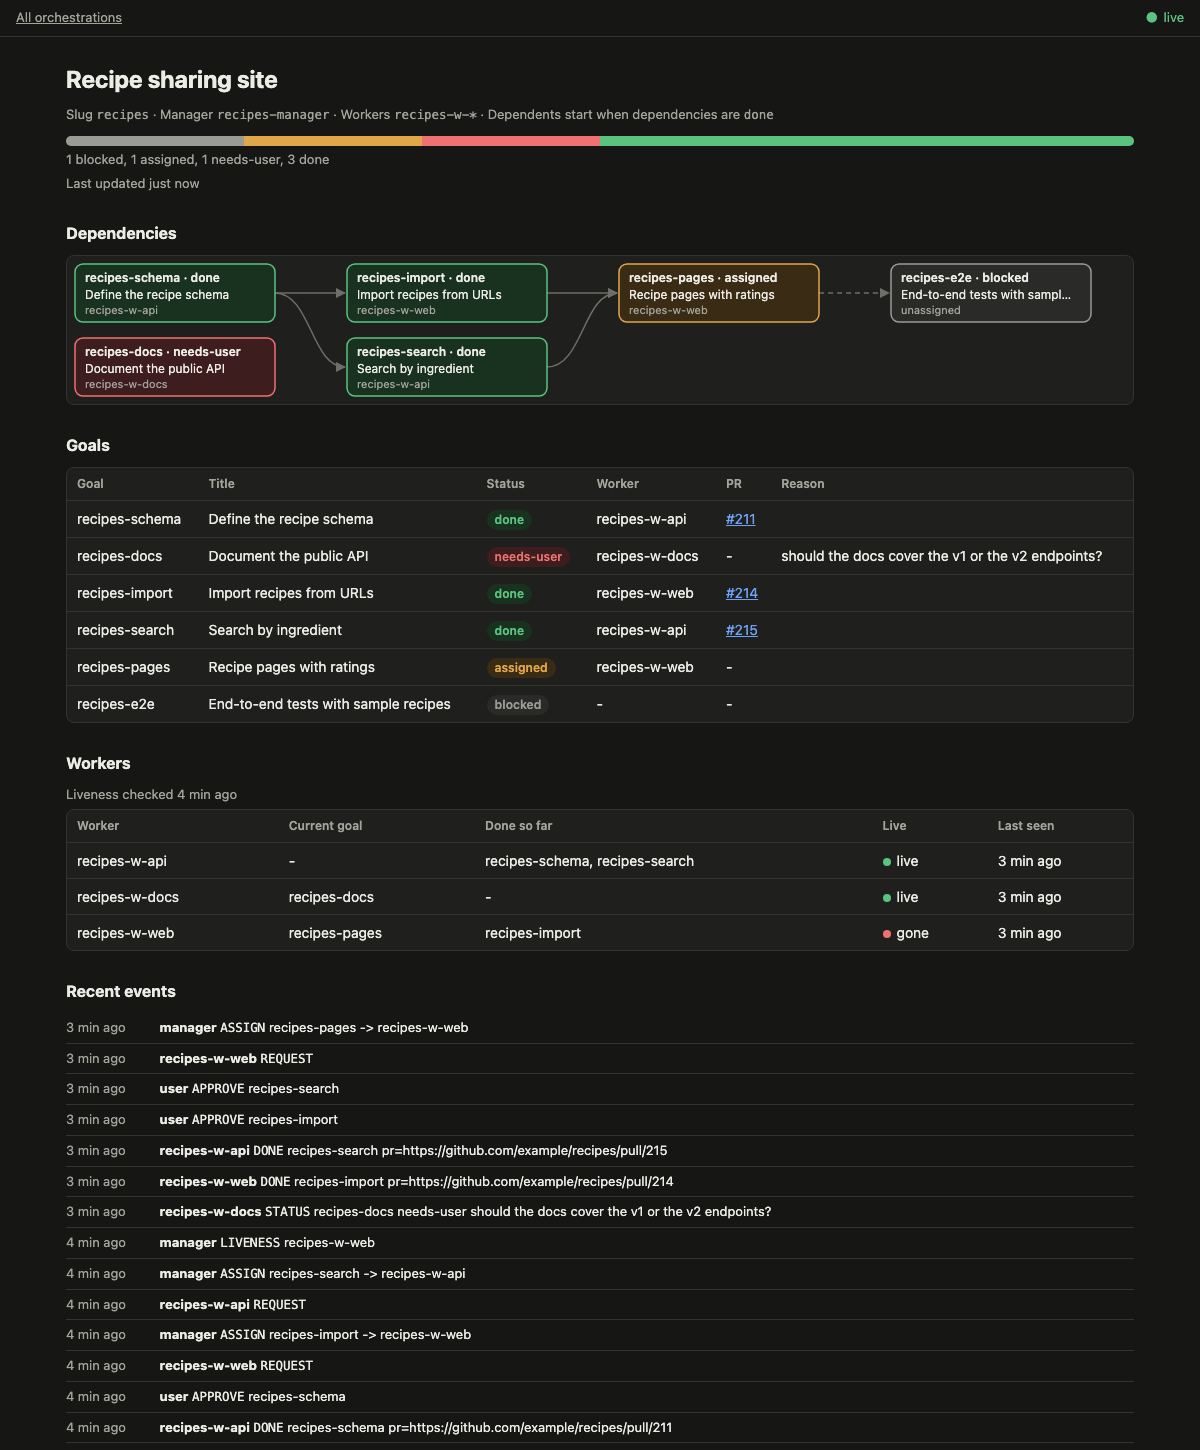
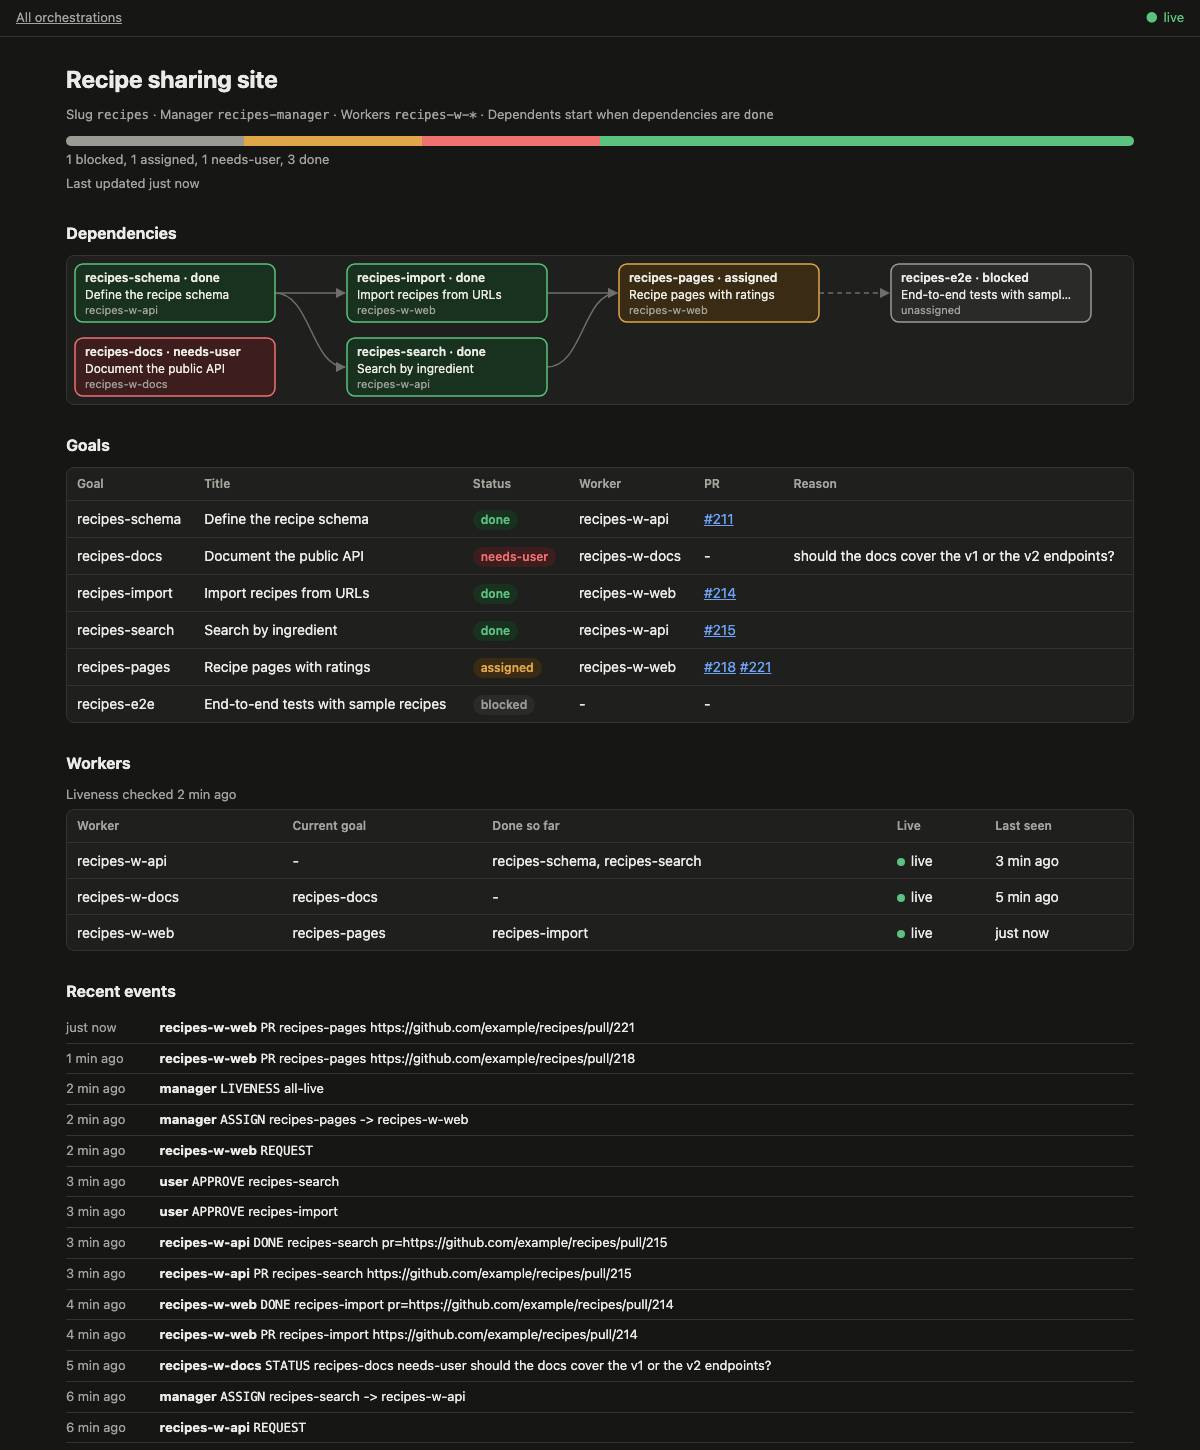
docs(orchestrator): retake status screenshots and add a PR visibility demo GIF

diff --git a/plugins/orchestrator/README.md b/plugins/orchestrator/README.md
@@ -66,6 +66,11 @@ orchestration, and gives you its URL (default `http://127.0.0.1:8765/`). The ind
 every orchestration; each one has a page with its dependency graph, goals, workers and
 recent events, updated within a second of each change.
 
+A worker reports each PR as soon as it opens it, so the PR column fills in while the goal
+is still in progress, and a goal can list several PRs:
+
+![A goal gaining its first and second PR, then moving to in-review](docs/images/status-pr-visibility.gif)
+
 ![Epic page: dependency graph, goals, workers and recent events](docs/images/status-epic-light.png)
 
 <details>
